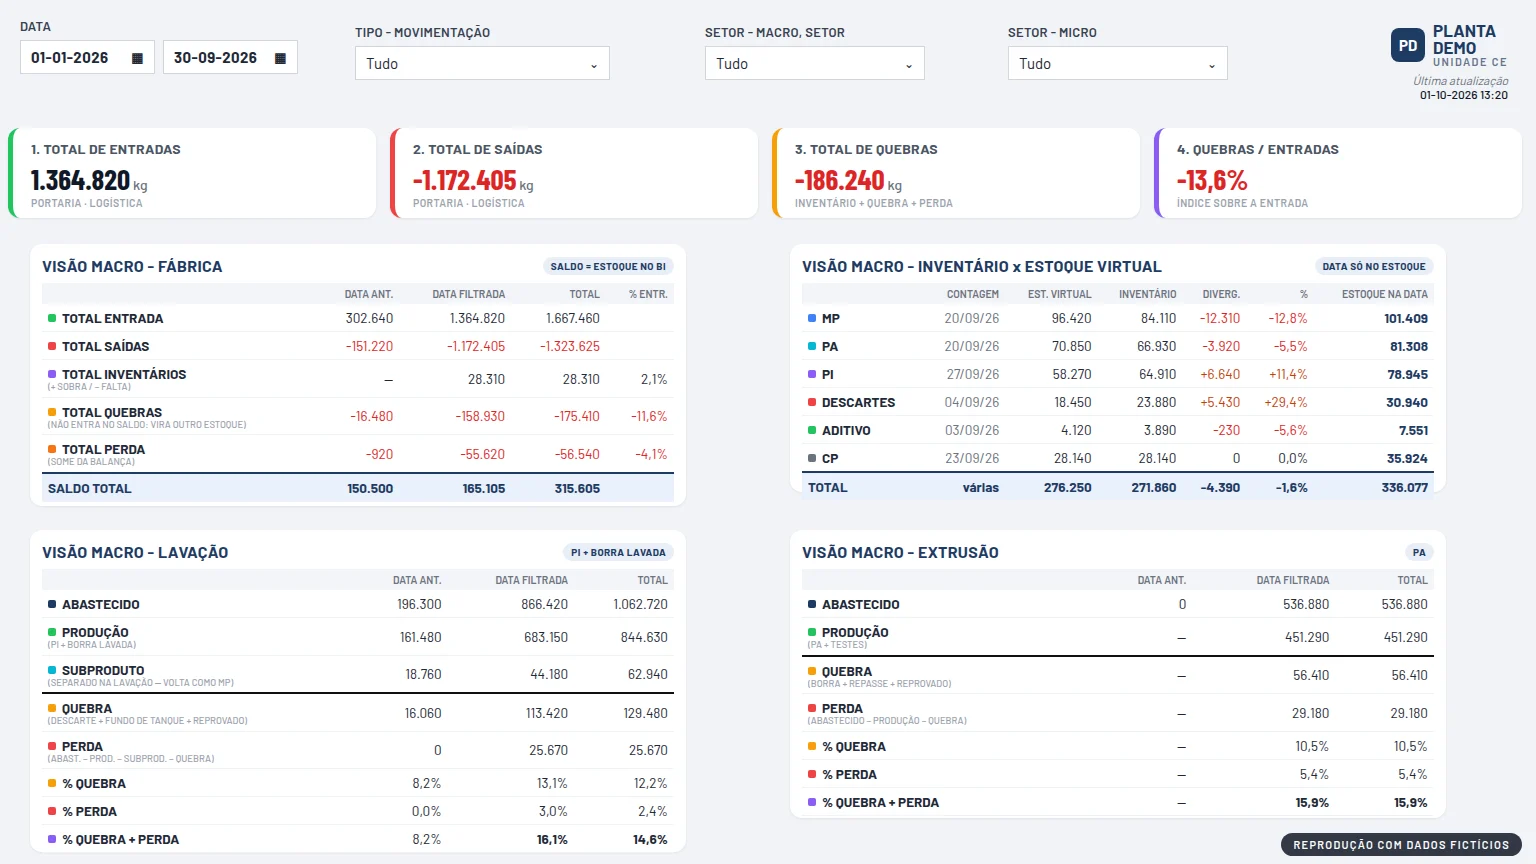
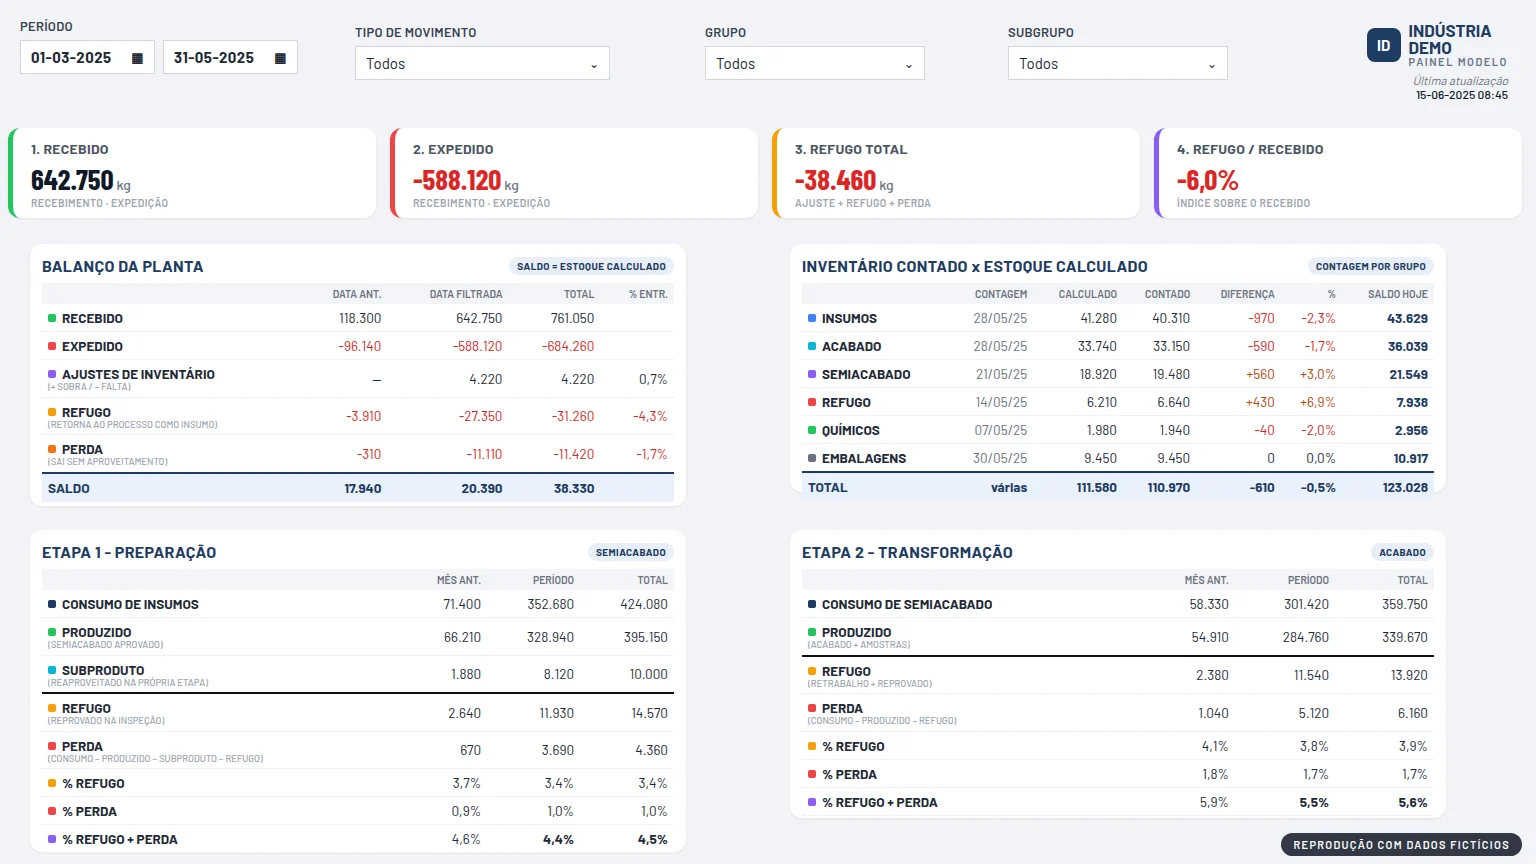
fix(bi): telas com valores, metas, datas e nomes genericos
As reproducoes ainda carregavam dado interno: metas reais de OEE e de
kg/h, vocabulario do processo, nomes de material e setor, inicio do
calendario do modelo, codigos do plano de contas e percentuais proximos
dos reais. Refeitas com escala, metas e datas diferentes, vocabulario
generico de industria, produtos e pessoas ficticios e plano de contas
padrao; os totais continuam fechando. Legendas e frentes da pagina /bi
deixam de citar as etapas reais do processo.

diff --git a/content/bi.ts b/content/bi.ts
@@ -23,20 +23,20 @@ export const bi = {
   } satisfies Text,
   stack: ["Power BI", "DAX", "Power Query (M)", "BigQuery", "Modelagem dimensional", "PBIP / TMDL"],
   telas: [
-    { arquivo: "/bi/controle-geral.webp", frente: "visao-geral", titulo: { pt: "Controle geral da fábrica", en: "Plant control panel" },
-      legenda: { pt: "Entradas, saídas, quebras e saldo; inventário contado × estoque virtual; balanço de cada etapa (lavação e extrusão).", en: "Inflows, outflows, losses and balance; counted inventory × virtual stock; balance per stage (washing and extrusion)." } },
-    { arquivo: "/bi/oee.webp", frente: "oee", titulo: { pt: "OEE da extrusão", en: "Extrusion OEE" },
+    { arquivo: "/bi/controle-geral.webp", frente: "visao-geral", titulo: { pt: "Balanço da planta", en: "Plant balance" },
+      legenda: { pt: "Recebido, expedido, refugo e saldo; inventário contado × estoque calculado; balanço de massa de cada etapa do processo.", en: "Received, shipped, scrap and balance; counted inventory × calculated stock; mass balance for each process stage." } },
+    { arquivo: "/bi/oee.webp", frente: "oee", titulo: { pt: "OEE por linha", en: "OEE by line" },
       legenda: { pt: "Disponibilidade, performance e qualidade contra a meta, com o OEE diário e mensal.", en: "Availability, performance and quality against target, with daily and monthly OEE." } },
-    { arquivo: "/bi/producao.webp", frente: "producao", titulo: { pt: "Produção da extrusão", en: "Extrusion production" },
-      legenda: { pt: "Produção por produto, por turno e por dia, produto acabado × resíduo, e os fatores do OEE lote a lote.", en: "Output by product, shift and day, finished product × scrap, and OEE factors batch by batch." } },
-    { arquivo: "/bi/estoque-mp.webp", frente: "estoques", titulo: { pt: "Estoque de matéria-prima", en: "Raw material inventory" },
-      legenda: { pt: "Saldo por produto e por setor de movimentação, com o sinal resolvido na carga.", en: "Balance by product and by movement sector, with the sign resolved at load time." } },
-    { arquivo: "/bi/ativos.webp", frente: "financeiro", titulo: { pt: "Detalhamento dos ativos", en: "Assets breakdown" },
-      legenda: { pt: "Balanço em hierarquia de contas, com saldo anterior, débito, crédito e evolução mensal.", en: "Balance sheet in account hierarchy, with opening balance, debit, credit and monthly trend." } },
-    { arquivo: "/bi/despesas.webp", frente: "financeiro", titulo: { pt: "Despesas gerais", en: "General expenses" },
-      legenda: { pt: "Despesa total e despesa sobre faturamento líquido contra a meta, aberta por grupo e conta, mês a mês.", en: "Total expense and expense over net revenue against target, broken down by group and account, month by month." } },
+    { arquivo: "/bi/producao.webp", frente: "producao", titulo: { pt: "Produção por linha", en: "Production by line" },
+      legenda: { pt: "Produção por item, turno e dia, produzido × refugo, e os fatores do OEE lote a lote.", en: "Output by item, shift and day, produced × scrap, and OEE factors batch by batch." } },
+    { arquivo: "/bi/estoque-mp.webp", frente: "estoques", titulo: { pt: "Estoque de insumos", en: "Input inventory" },
+      legenda: { pt: "Saldo por item e por origem do movimento, com o sinal resolvido na carga.", en: "Balance by item and by movement origin, with the sign resolved at load time." } },
+    { arquivo: "/bi/ativos.webp", frente: "financeiro", titulo: { pt: "Balanço patrimonial", en: "Balance sheet" },
+      legenda: { pt: "Ativo em hierarquia de contas, com saldo inicial, débitos, créditos e evolução mensal.", en: "Assets in account hierarchy, with opening balance, debits, credits and monthly trend." } },
+    { arquivo: "/bi/despesas.webp", frente: "financeiro", titulo: { pt: "Despesas operacionais", en: "Operating expenses" },
+      legenda: { pt: "Despesa do mês e despesa sobre receita líquida contra a meta, aberta por grupo e conta.", en: "Monthly expense and expense over net revenue against target, broken down by group and account." } },
     { arquivo: "/bi/tarefas.webp", frente: "tarefas", titulo: { pt: "Painel de tarefas", en: "Task dashboard" },
-      legenda: { pt: "Volume, atraso e entregáveis por status, setor, data e pessoa — base para o painel em HTML que o substituiu.", en: "Volume, delays and deliverables by status, sector, date and person — the basis for the HTML dashboard that replaced it." } },
+      legenda: { pt: "Volume, atraso e entregas por situação, área, dia e responsável.", en: "Volume, delays and deliveries by status, area, day and owner." } },
   ] as Tela[],
   frentes: [
     {
@@ -54,7 +54,7 @@ export const bi = {
       nome: { pt: "Produção", en: "Production" },
       pergunta: { pt: "Quanto produzimos, onde e em que turno?", en: "How much did we produce, where and on which shift?" },
       mostra: [
-        { pt: "Produção por etapa (lavação, moagem, extrusão)", en: "Output by stage (washing, grinding, extrusion)" },
+        { pt: "Produção por etapa do processo", en: "Output by process stage" },
         { pt: "Por máquina, turno, produto e dia", en: "By machine, shift, product and day" },
         { pt: "Relatório diário de produção", en: "Daily production report" },
       ],
@@ -84,8 +84,8 @@ export const bi = {
       nome: { pt: "Estoques", en: "Inventory" },
       pergunta: { pt: "O que temos, em cada etapa do processo?", en: "What do we have, at each stage of the process?" },
       mostra: [
-        { pt: "Matéria-prima, intermediário e produto acabado", en: "Raw material, work-in-progress and finished goods" },
-        { pt: "Aditivos, pigmentos, componentes e resíduo", en: "Additives, pigments, components and scrap" },
+        { pt: "Insumo, semiacabado e produto acabado", en: "Inputs, work-in-progress and finished goods" },
+        { pt: "Químicos, embalagens e refugo", en: "Chemicals, packaging and scrap" },
         { pt: "Saldo calculado pelo movimento, com sinal resolvido na carga", en: "Balance computed from movements, sign resolved at load time" },
       ],
     },
